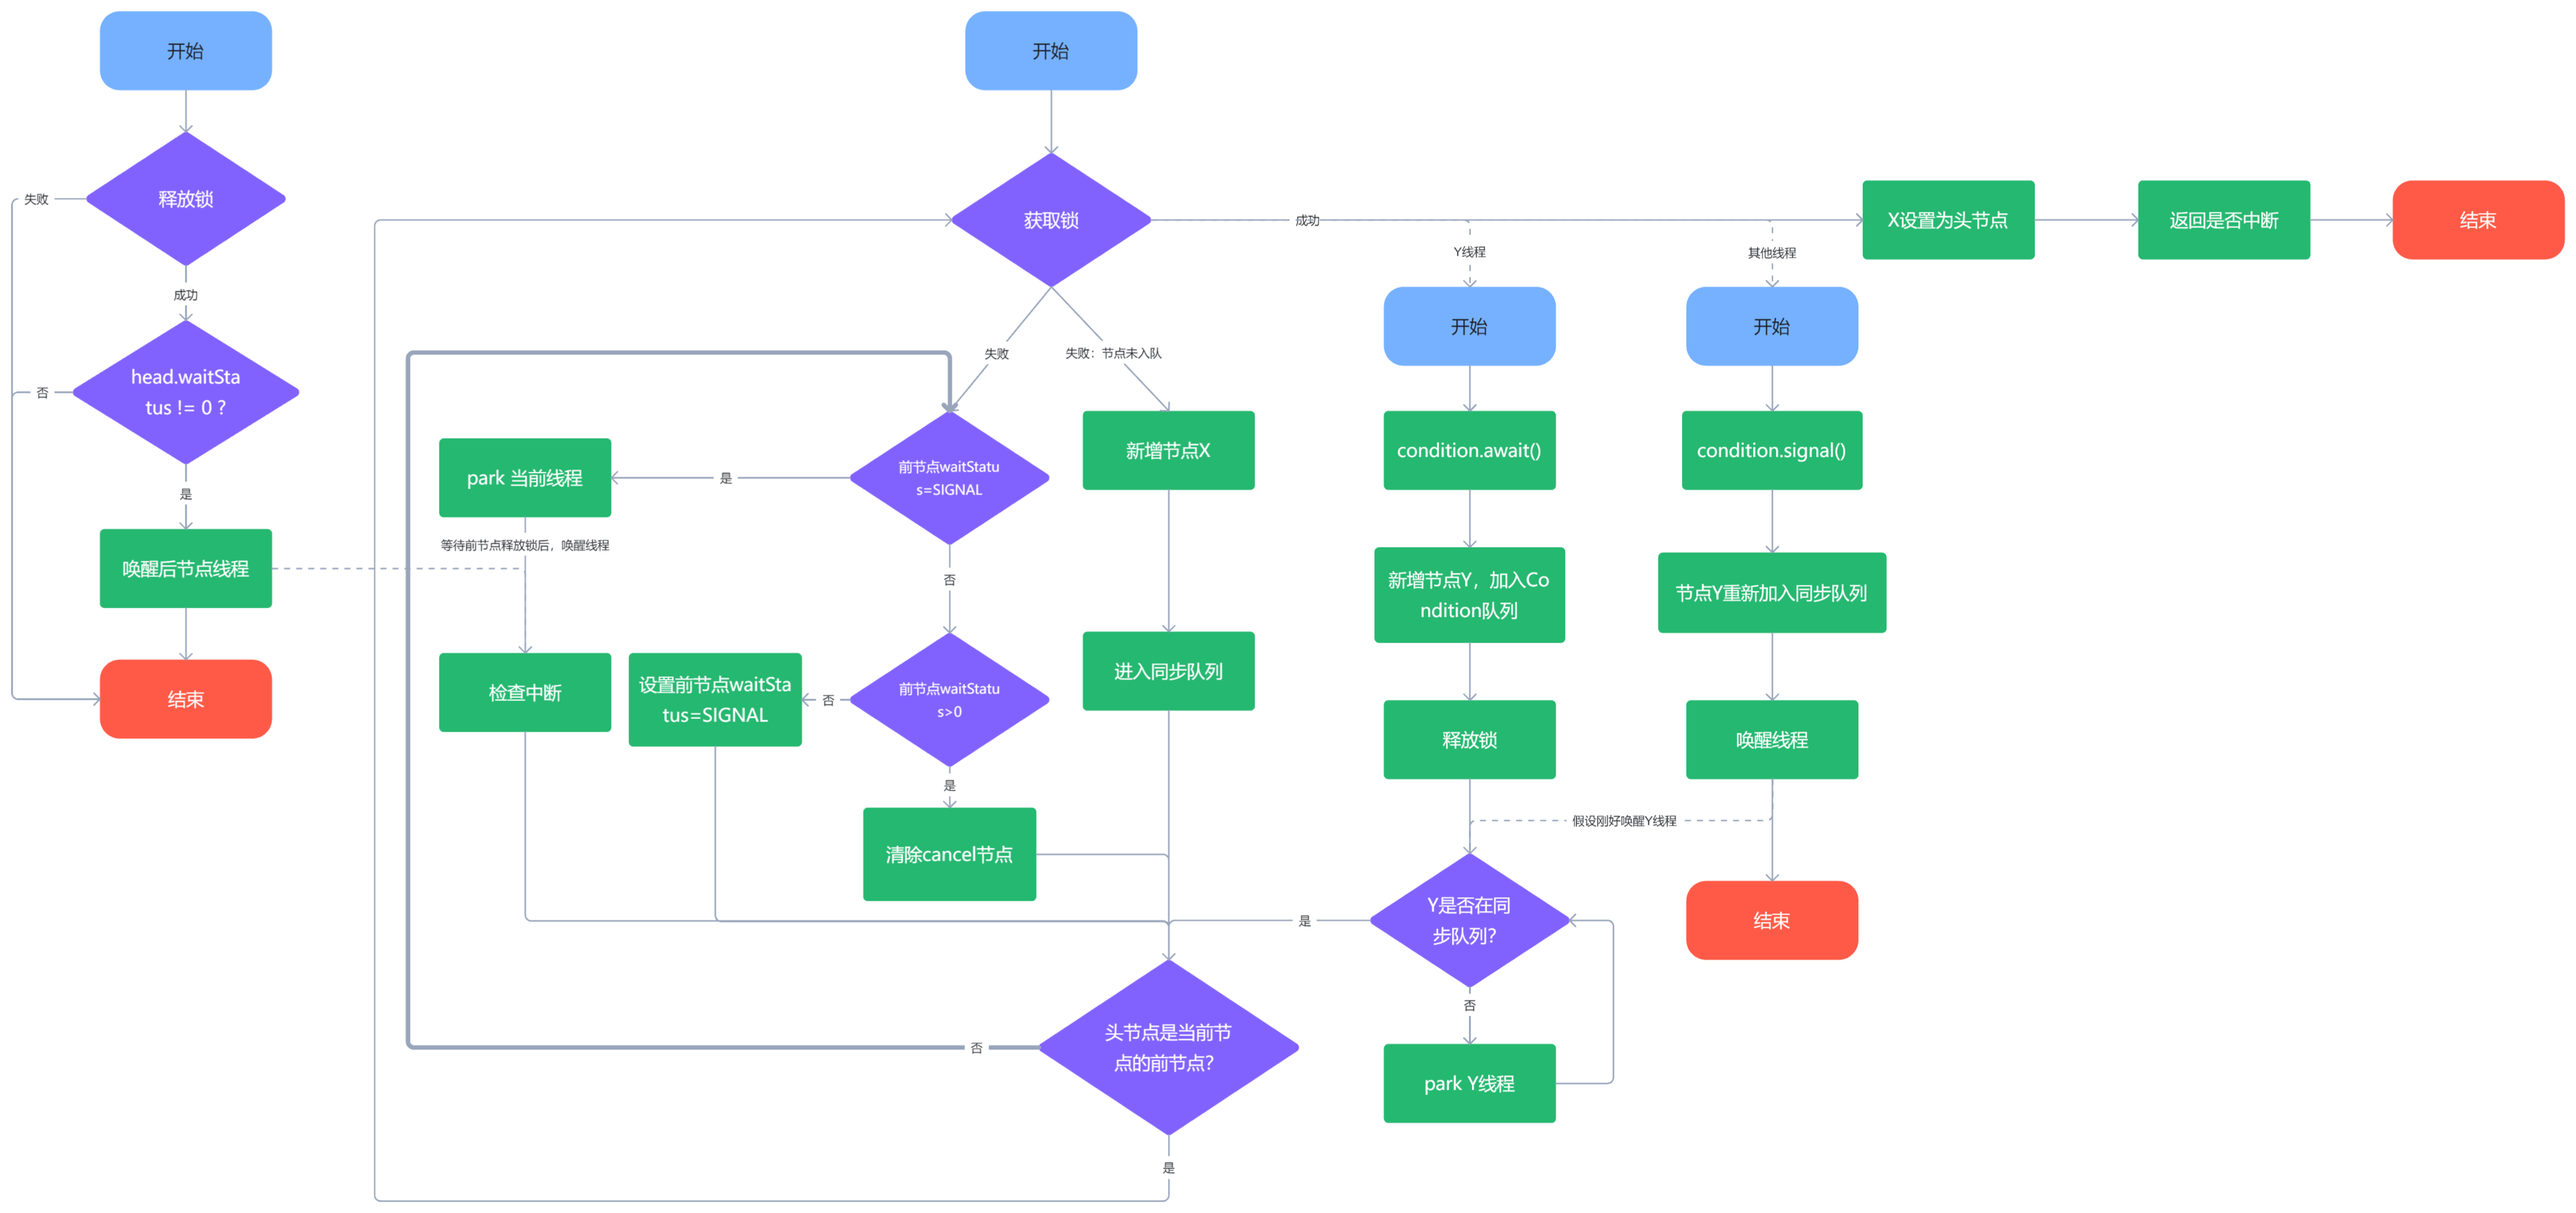
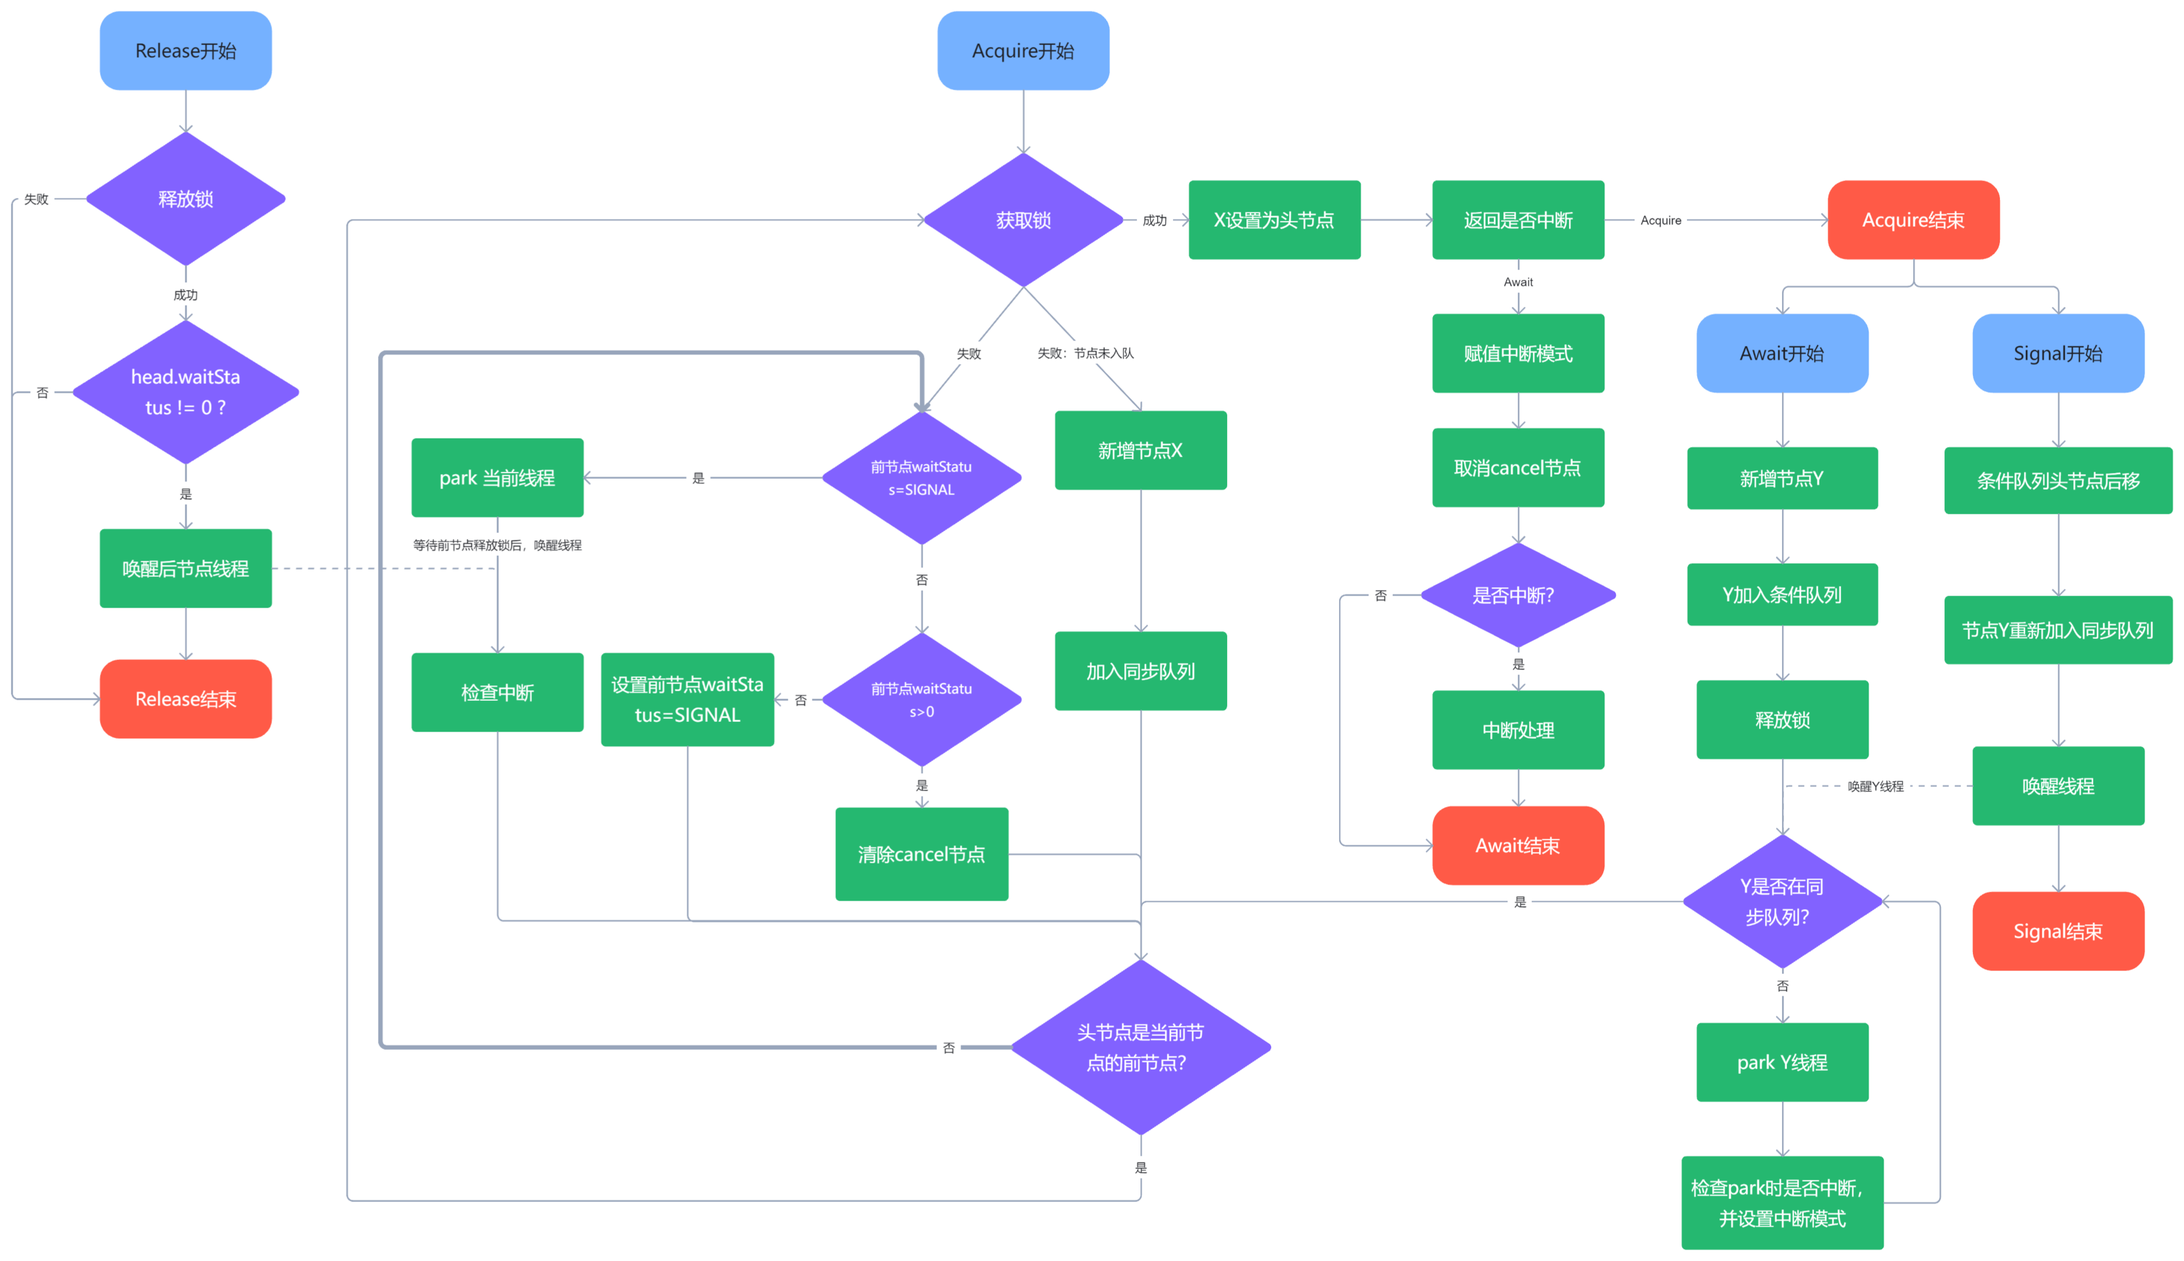
AQS源码分析

diff --git a/源码解析/并发类源码解析/AQS源码分析.md b/源码解析/并发类源码解析/AQS源码分析.md
@@ -43,6 +43,13 @@
 
 ## 原理简析
 
+>   `AQS`作为常用的`ReentrantLock`，`ReentrantReadWriteLock`中必不可少的通用组件的父类，其封装了在同步队列`park`等待，在被唤醒后重试获取锁的动作；以及`Condition`队列的逻辑。`state`参数标识锁的持有释放。 
+>1. `AQS`为独占锁开放了拓展方法`tryAcquire`，`tryRelease`，让子类进行拓展加锁逻辑，例如我们使用的`ReentrantLock`的公平锁/非公平锁，其差异化就在方法`tryAcquire`。  
+>2. `AQS`为共享锁开放了拓展方法`tryAcquireShared`，`tryReleaseShared`，让子类进行拓展加锁逻辑，例如我们使用的`ReentrantReadWriteLock`的读写锁就是由此拓展而来。  
+>3. `AQS`中维护了一条双向链表的同步队列，获取锁失败的节点，将进入同步队列中，等待重试获取锁。在释放锁时，如果当前节点的`waitStatus != 0`，则表示后继节点等待被唤醒，此时将唤醒该线程再次竞争获取锁。
+>4. `Condition`的`await/signal/signalAll`使用方式类似于`Object`的`wait/notify/notifyAll`，在`condition`内部维护了一条双向链表的条件队列，在await期间，会向`condition`的链表中插入一个节点X，并释放所有锁，然后`park`当前线程X，直到其他线程`notify/notifyAll`时，会将X节点再插入同步队列中，X线程被唤醒后，重试获取锁。
+
+
 ![AQS](../../image/AQS.png)
 
 ## 源码分析
@@ -310,3 +317,25 @@ public final void signal() {
 ```
 
 ### 共享锁
+
+
+#### acquireShared
+```java
+
+public final void acquireShared(int arg) {
+    if (tryAcquireShared(arg) < 0)
+        doAcquireShared(arg);
+}
+```
+
+#### releaseShared
+```java
+
+public final boolean releaseShared(int arg) {
+    if (tryReleaseShared(arg)) {
+        doReleaseShared();
+        return true;
+    }
+    return false;
+}
+```
